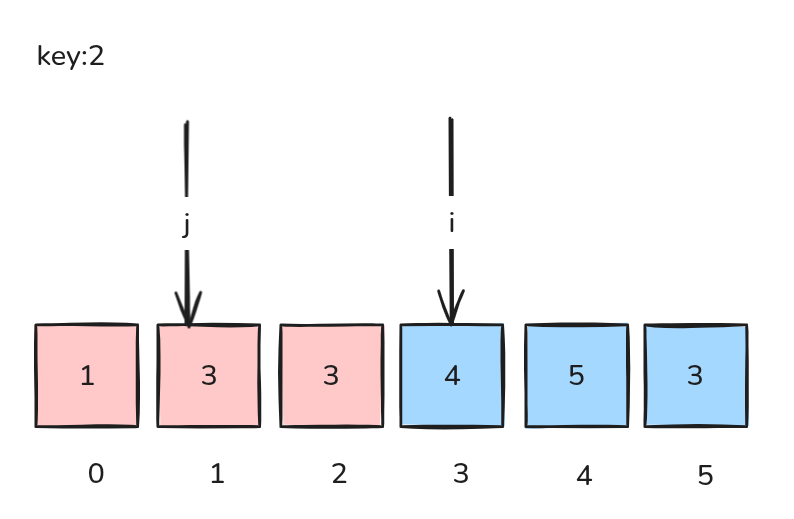
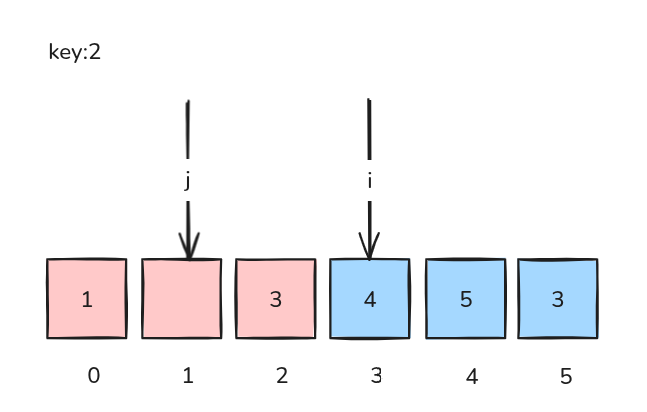
测试上传

diff --git a/vite-press/docs/articles/server/c/64.插入排序.md b/vite-press/docs/articles/server/c/64.插入排序.md
@@ -64,3 +64,6 @@ void insertion_sort(int *a,int length){
 
 随后将区域`[j,i-1]`下的元素全部后移一位;
 ![](https://raw.githubusercontent.com/matrix-johnjohn/kimo-docs/refs/heads/main/images/articles/server/c/data-struct/sort/insertion_sort/insertion_sort_02.png)
+
+将`key`插入索引`j`下;
+![](https://raw.githubusercontent.com/matrix-johnjohn/kimo-docs/refs/heads/main/images/articles/server/c/data-struct/sort/insertion_sort/insertion_sort_03.png)
